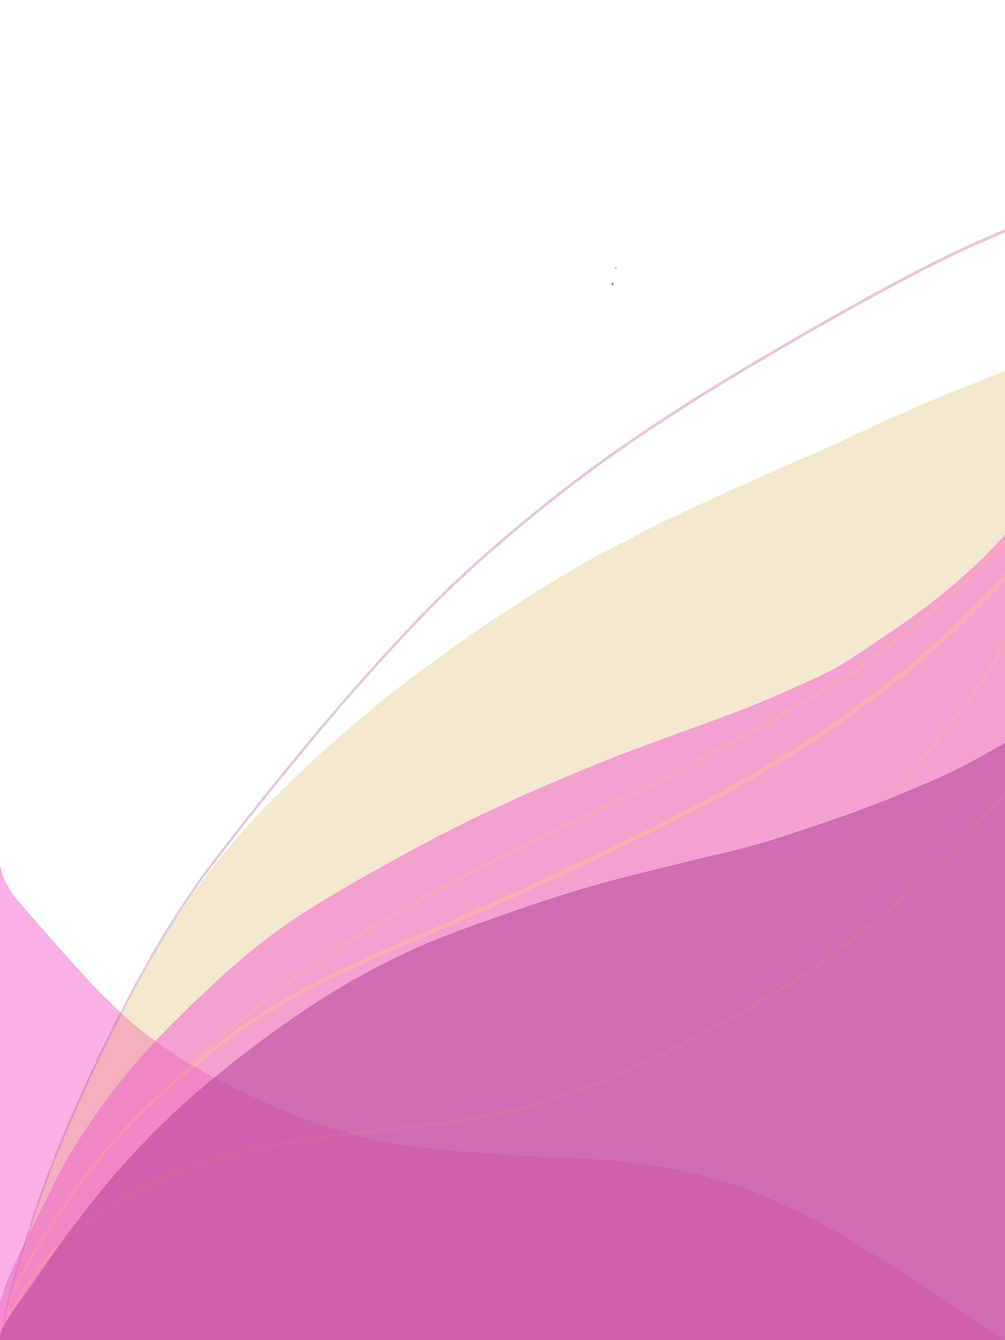
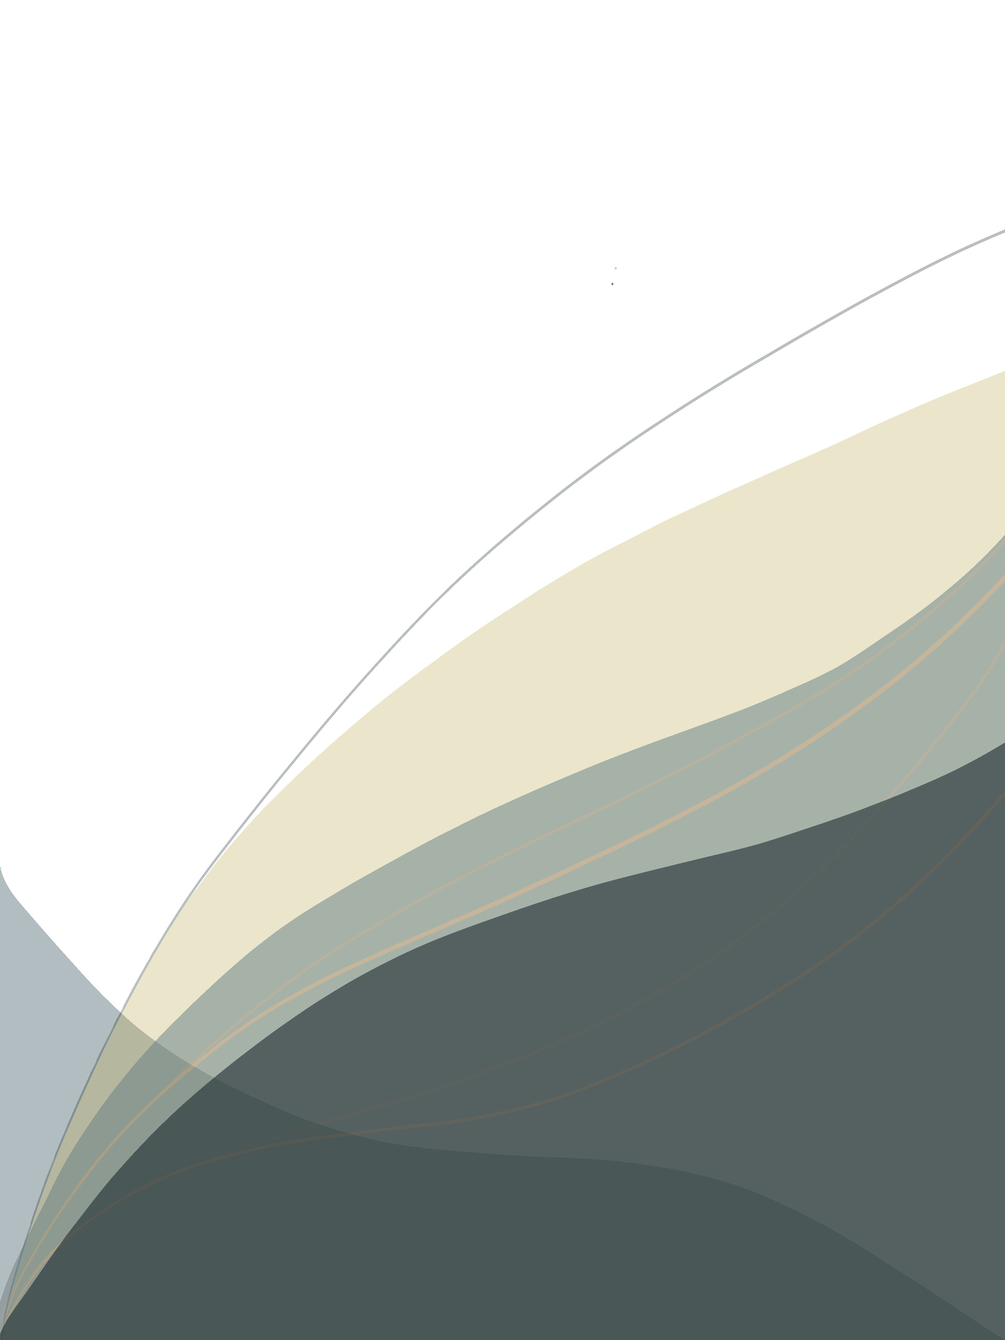
change background

diff --git a/docs/assets/css/main.css b/docs/assets/css/main.css
@@ -1,1 +1,1 @@
-html,body,div,span,applet,object,iframe,h1,h2,h3,h4,h5,h6,p,blockquote,pre,a,abbr,acronym,address,big,cite,code,del,dfn,em,img,ins,kbd,q,s,samp,small,strike,strong,sub,sup,tt,var,b,u,i,center,dl,dt,dd,ol,ul,li,fieldset,form,label,legend,table,caption,tbody,tfoot,thead,tr,th,td,article,aside,canvas,details,embed,figure,figcaption,footer,header,hgroup,menu,nav,output,ruby,section,summary,time,mark,audio,video{margin:0;padding:0;border:0;box-sizing:border-box;font-size:100%;font:inherit;vertical-align:baseline}article,aside,details,figcaption,figure,footer,header,hgroup,menu,nav,section{display:block}body{line-height:1}ol,ul{list-style:none}blockquote,q{quotes:none}blockquote:before,blockquote:after,q:before,q:after{content:'';content:none}table{border-collapse:collapse;border-spacing:0}:root{font-size:62.5%;scroll-behavior:smooth}.main{background-color:#f5f5f5;display:flex;flex-direction:column;justify-content:center;text-align:center;height:52.2vh}@media (min-width: 768px){.main{height:60vh}}.main--section1{display:flex;flex-direction:column;justify-content:center;text-align:center}.main--section1__title{color:#994294;font-size:19.2px;height:24px;font-family:"Merriweather",sans-serif;font-weight:bold;padding-top:20px}@media all and (min-width: 768px){.main--section1__title{font-size:24px;height:31px;padding-top:15px;transform:translateY(-20px)}}.main--section1__paragraph{font-family:"Open Sans",sans-serif;color:#114e4e;font-size:13px;margin:20px 28px 17.8px 28px;line-height:1.5}@media all and (min-width: 768px){.main--section1__paragraph{font-size:16px;margin:auto;padding-top:10px;width:331px;height:48px;transform:translateY(-20px)}}.main--section2{display:flex;flex-direction:row;justify-content:space-around;align-items:center;margin:20px 28px 17.8px 28px;border:solid 2px #f1beee;height:74px;border-radius:4px;padding:15px}@media all and (min-width: 768px){.main--section2{width:325px;height:86px;margin:40px auto;padding:15px 20px 10px;transform:translateY(-20px)}}.main--section2__div{display:flex;flex-direction:column;align-items:center}.main--section2__div__icon{color:#994294;height:26px;width:32px;font-size:22.4px}@media all and (min-width: 768px){.main--section2__div__icon{width:32px;height:29px}}.main--section2__div__text{color:#54585a;font-size:13px;font-family:"Open Sans",sans-serif}@media all and (min-width: 768px){.main--section2__div__text{font-size:16px}}.main--section3{text-align:center;justify-content:center;margin:38px 75px 50px 65px}@media all and (min-width: 768px){.main--section3{transform:translateY(40px)}}.main--section3__button{color:white;text-transform:uppercase;font-family:"Open Sans",sans-serif;font-weight:600;font-size:16px;background-color:#FBC536;border:none;border-radius:21px;width:129px;height:42px;padding:10px 20px;text-decoration:none;cursor:pointer}.landing--header{display:flex;flex-direction:column;justify-content:flex-end;align-items:center;height:27.8vh;background-color:#f5f5f5}@media (min-width: 768px){.landing--header{height:40vh}}@media (min-width: 1200px){.landing--header{height:30vh}}.landing--header__logo{width:100%;height:150px;padding-left:35px;padding-right:35px;transform:rotate(-10deg);margin-top:100px}@media (min-width: 768px){.landing--header__logo{height:200px;padding-left:155px;padding-right:154px}}.create-card--header{display:flex;flex-direction:column;justify-content:center;align-items:center;height:10.9vh;background-color:#fff}@media (min-width: 768px){.create-card--header{height:10.75vh;flex-direction:row;justify-content:flex-start}}@media (min-width: 1200px){.create-card--header{height:10.83vh}}.create-card--header__logo{height:50px}@media (min-width: 768px){.create-card--header__logo{padding-left:40px}}.footerContent{display:flex;flex-direction:column;justify-content:center;align-items:center;padding:18px 50px 20px;border-top:solid 1px #d8d8d8;background-color:#fff;height:15vh;width:100%}@media (min-width: 768px){.footerContent{height:10vh;max-height:80px}}.footerText{opacity:0.5;width:100%;font-family:"Open Sans",sans-serif;font-size:14px;line-height:1.43;color:#6b6b6b;text-align:center}.logo{width:100px;margin:12px 47px 0 48px}@media all and (min-width: 768px){.footerContent{flex-direction:row;justify-content:space-between}.footerText{text-align:left}.logo{align-items:right;margin-right:0;width:200px;margin-top:30px}}@media (min-width: 768px){.main--create-card{display:grid;grid-template-columns:1fr 1fr;gap:30px;background-color:#f5f5f5;padding-left:40px;padding-right:40px;min-height:82vh}}@media (min-width: 1200px){.main--create-card{grid-template-columns:1fr 2fr}}.create-card--header__logo{transform:rotate(-10deg);margin-top:10px}@media (min-width: 768px){.form--create-card{order:-1;padding-top:10px;padding-right:20px;display:flex;flex-direction:column;justify-content:flex-start}}.header--scroll__create-card{color:#54585a;font-size:18px}.header--scroll__create-card__rotate{transform:rotate(180deg);padding-top:25px}.collapsed{display:none}.disabled-link{pointer-events:none}.fill{border-bottom:1px solid #d8d8d8;margin-bottom:10px;margin-left:30px;margin-right:20px}@media (min-width: 768px){.fill{margin-left:0px;margin-right:0px}}.form--label{display:flex;flex-direction:column;justify-content:center;font-family:"Open Sans",sans-serif;font-size:1.4rem;line-height:20px;color:#114e4e;width:100%;padding-bottom:10px}.form--input{font-family:"Open Sans",sans-serif;font-size:1.4rem;padding:3px 9px 7px 9px;margin-bottom:15px;margin-top:7px;height:20px;border:solid 1px #a2deaf}.form--input__error{border:solid 1px red}.form--photo{display:flex;margin-top:7px;margin-bottom:20px}.form--photo__button{padding:3px 22px 7px 22px;font-family:"Open Sans",sans-serif;font-size:1.4rem;line-height:20px;background-color:#994294;color:#fff;width:140px;border-radius:4px;cursor:pointer;padding-top:9px}.form--foto__marco{width:30px;height:30px;margin-left:20px;border:solid 1px #a2deaf}.fill--header{display:flex;flex-direction:row;justify-content:space-between;cursor:pointer}.fill--header__title{padding-bottom:15px}.fill--header__title__icon{color:#994294;height:26px;width:32px;font-size:18px}@media (min-width: 1200px){.fill--header__title__icon{font-size:22px}}.fill--header__title__text{color:#54585a;font-size:18px;font-family:"Open Sans",sans-serif;text-transform:uppercase;font-weight:600;padding-left:5px;text-transform:uppercase}.action__hiddenField{display:none}.profile{margin:0 auto;display:flex;justify-content:center}.profile__image,.profile__preview{background-position:center;background-repeat:no-repeat;background-size:cover;border:1px solid #ccc}.profile__image{width:300px;height:300px}.profile__preview{width:30px;height:30px;margin-left:15px}.preview-photo{display:flex;flex-direction:row;margin-bottom:15px}.create{border-bottom:1px solid #d8d8d8;margin:0 20px 15px 30px}@media all and (min-width: 768px){.create{margin-left:0px;margin-right:0px}}.main--create{display:flex;flex-direction:row;justify-content:space-between;width:100%;padding-top:20px;padding-bottom:15px}@media all and (min-width: 768px){.main--create{padding-top:20px;padding-right:0px;padding-left:0px;padding-bottom:15px}}.main--create__legend{display:flex;flex-direction:row;gap:10px;cursor:pointer}.main--create__span{width:21px;height:18px;font-size:18px;color:#994294}.main--create__text{font-family:"Open Sans",sans-serif;font-weight:600;font-size:18px;color:#54585a;text-transform:uppercase}.main--create__paragraph{font-family:"Open Sans",sans-serif;font-size:14px;color:#54585a;margin-top:10px;margin-left:39px;text-transform:uppercase}@media all and (min-width: 768px){.main--create__paragraph{margin-left:0px}}.main--create__form{display:flex;justify-content:space-between}@media all and (min-width: 768px){.main--create__form{margin-top:-20px}}.main--create__colors{margin-right:25px;margin-top:10px}.main--create__elections{display:flex;flex-direction:row}.main--create__div{margin-bottom:20px}.main--create__color{display:grid;grid-template-columns:1fr 1fr 1fr;margin-left:15px}.main--create__color1{background-color:#114e4e;width:30px;height:25px}.main--create__color2{background-color:#438792;width:30px;height:25px}.main--create__color3{background-color:#a2deaf;width:30px;height:25px}.main--create__color4{background-color:#420101;width:30px;height:25px}.main--create__color5{background-color:#bd1010;width:30px;height:25px}.main--create__color6{background-color:#e95626;width:30px;height:25px}.main--create__color7{background-color:#994294;width:30px;height:25px}.main--create__color8{background-color:#eab052;width:30px;height:25px}.main--create__color9{background-color:#D94DED;width:30px;height:25px}.main_card{display:flex;flex-direction:column;flex-wrap:wrap;justify-items:center;justify-content:center;align-content:center;width:100%;background-image:url("../images/fondoverde.jpg");background-size:100% 100%;background-repeat:no-repeat;padding-bottom:10px;background-position-x:right}.main_card.palette1{background-image:url("../images/fondoverde.jpg")}.main_card.palette2{background-image:url("../images/fondorojo.jpg")}.main_card.palette3{background-image:url("../images/fondolila.jpg")}@media (min-width: 768px){margin-top:23px;margin-bottom:21px;border-radius:8px}.reset{width:85px;height:30px;border:solid 1px #fff;border-radius:15px;background-color:#dfdfdf;margin-top:35px;margin-bottom:20px;color:#54585a;font-size:10px;font-family:"Open Sans",sans-serif;text-transform:capitalize;letter-spacing:2px;cursor:pointer}.reset:hover{background-color:#54585a;color:white}.profileCard{display:flex;flex-direction:column;justify-content:space-evenly;background-color:white;width:240px;height:330px;border-radius:2px;box-shadow:0 1px 10px #6b6b6b;margin-bottom:40px}.profileText{border-left:5px solid #438792;font-family:"Montserrat",sans-serif;line-height:23px;margin-top:10px}.profileText.palette1{border-left-color:#438792}.profileText.palette2{border-left-color:#bd1010}.profileText.palette3{border-left-color:#eab052}.nameSurname{font-size:18px;font-weight:bold;color:#114e4e;padding-left:18px}.nameSurname.palette1{color:#114e4e}.nameSurname.palette2{color:#420101}.nameSurname.palette3{color:#994294}.profileRole{color:#54585a;padding-left:18px;font-size:16px}.profilePhotoContainer{width:100%;height:200px;background-repeat:no-repeat;background-size:100%;display:flex;justify-content:center;align-items:flex-end}.profileLinks{display:flex;justify-content:flex-start;align-items:baseline;padding-right:60px;padding-left:10px;color:#114e4e}.profileLinks.palette1 .icon{border-color:#a2deaf}.profileLinks.palette2 .icon{border-color:#e95626}.profileLinks.palette3 .icon{border-color:#D94DED}.icon{border:solid 3px #a2deaf;border-radius:50px;padding:7px 8.5px;font-size:20px;height:40px;width:40px;margin-right:5px}.mail,.linkedin,.github,.telephone{color:#114e4e}.mail.palette1,.linkedin.palette1,.github.palette1,.telephone.palette1{color:#114e4e}.mail.palette2,.linkedin.palette2,.github.palette2,.telephone.palette2{color:#420101}.mail.palette3,.linkedin.palette3,.github.palette3,.telephone.palette3{color:#994294}.share{border-bottom:1px solid #d8d8d8;margin:0 20px 25px 30px}@media all and (min-width: 768px){.share{margin-left:0px;margin-right:0px}}.share--header{display:flex;flex-direction:row;justify-content:space-between;cursor:pointer;margin-bottom:-10px}.share--header__title{padding-bottom:25px}.share--header__title__icon{color:#994294;height:26px;width:32px;font-size:22px}.share--header__title__text{color:#54585a;font-size:18px;font-family:"Open Sans",sans-serif;font-weight:600;padding-left:5px;text-transform:uppercase}.share--header .sectionshare__arrow{font-size:18px;color:#54585a}.share--button{display:flex;justify-content:center}.share--button__create{width:199px;height:50px;background-color:#994294;color:#f5f5f5;border:none;border-radius:12px;box-shadow:0 1px 6px 0 var(--black-32);font-family:"Open Sans",sans-serif;font-size:18px;text-transform:uppercase;box-shadow:0 1px 6px 0 rgba(0,0,0,0.32);margin:auto;cursor:pointer}.share--button__create:hover{background:#d5d5d5}.share--button .fa-regular{margin-right:8px;font-size:22px;color:#f5f5f5}.share--button2{display:flex;justify-content:center;flex-direction:column;padding-bottom:25px}.share--button2__text{font-family:"Open Sans",sans-serif;font-size:18px;font-weight:600;color:#54585a;text-align:center;margin-top:15px}.share--button2__nav{font-family:"Open Sans",sans-serif;font-size:12px;font-weight:600;color:#994294;text-align:center;text-decoration:none;line-height:3;margin-left:-11px;margin-right:-11px}.button2{display:flex;justify-content:center}.share--button2__twitter{width:181px;height:30px;margin-bottom:20px;padding:3px 9px 6px 10.5px;border-radius:3px;border:none;background-color:#00a0f5;color:#f5f5f5;font-family:"Open Sans",sans-serif;font-size:14px;box-shadow:0 1px 6px 0 rgba(0,0,0,0.32);cursor:pointer}.fa-brands{font-size:18px;margin-right:5px}.hiddenField{display:none}
+html,body,div,span,applet,object,iframe,h1,h2,h3,h4,h5,h6,p,blockquote,pre,a,abbr,acronym,address,big,cite,code,del,dfn,em,img,ins,kbd,q,s,samp,small,strike,strong,sub,sup,tt,var,b,u,i,center,dl,dt,dd,ol,ul,li,fieldset,form,label,legend,table,caption,tbody,tfoot,thead,tr,th,td,article,aside,canvas,details,embed,figure,figcaption,footer,header,hgroup,menu,nav,output,ruby,section,summary,time,mark,audio,video{margin:0;padding:0;border:0;box-sizing:border-box;font-size:100%;font:inherit;vertical-align:baseline}article,aside,details,figcaption,figure,footer,header,hgroup,menu,nav,section{display:block}body{line-height:1}ol,ul{list-style:none}blockquote,q{quotes:none}blockquote:before,blockquote:after,q:before,q:after{content:'';content:none}table{border-collapse:collapse;border-spacing:0}:root{font-size:62.5%;scroll-behavior:smooth}.main{background-color:#f5f5f5;display:flex;flex-direction:column;justify-content:center;text-align:center;height:52.2vh}@media (min-width: 768px){.main{height:60vh}}.main--section1{display:flex;flex-direction:column;justify-content:center;text-align:center}.main--section1__title{color:#994294;font-size:19.2px;height:24px;font-family:"Merriweather",sans-serif;font-weight:bold;padding-top:20px}@media all and (min-width: 768px){.main--section1__title{font-size:24px;height:31px;padding-top:15px;transform:translateY(-20px)}}.main--section1__paragraph{font-family:"Open Sans",sans-serif;color:#114e4e;font-size:13px;margin:20px 28px 17.8px 28px;line-height:1.5}@media all and (min-width: 768px){.main--section1__paragraph{font-size:16px;margin:auto;padding-top:10px;width:331px;height:48px;transform:translateY(-20px)}}.main--section2{display:flex;flex-direction:row;justify-content:space-around;align-items:center;margin:20px 28px 17.8px 28px;border:solid 2px #f1beee;height:74px;border-radius:4px;padding:15px}@media all and (min-width: 768px){.main--section2{width:325px;height:86px;margin:40px auto;padding:15px 20px 10px;transform:translateY(-20px)}}.main--section2__div{display:flex;flex-direction:column;align-items:center}.main--section2__div__icon{color:#994294;height:26px;width:32px;font-size:22.4px}@media all and (min-width: 768px){.main--section2__div__icon{width:32px;height:29px}}.main--section2__div__text{color:#54585a;font-size:13px;font-family:"Open Sans",sans-serif}@media all and (min-width: 768px){.main--section2__div__text{font-size:16px}}.main--section3{text-align:center;justify-content:center;margin:38px 75px 50px 65px}@media all and (min-width: 768px){.main--section3{transform:translateY(40px)}}.main--section3__button{color:white;text-transform:uppercase;font-family:"Open Sans",sans-serif;font-weight:600;font-size:16px;background-color:#FBC536;border:none;border-radius:21px;width:129px;height:42px;padding:10px 20px;text-decoration:none;cursor:pointer}.landing--header{display:flex;flex-direction:column;justify-content:flex-end;align-items:center;height:27.8vh;background-color:#f5f5f5}@media (min-width: 768px){.landing--header{height:40vh}}@media (min-width: 1200px){.landing--header{height:30vh}}.landing--header__logo{width:100%;height:150px;padding-left:35px;padding-right:35px;transform:rotate(-10deg);margin-top:100px}@media (min-width: 768px){.landing--header__logo{height:200px;padding-left:155px;padding-right:154px}}.create-card--header{display:flex;flex-direction:column;justify-content:center;align-items:center;height:10.9vh;background-color:#fff}@media (min-width: 768px){.create-card--header{height:10.75vh;flex-direction:row;justify-content:flex-start}}@media (min-width: 1200px){.create-card--header{height:10.83vh}}.create-card--header__logo{height:50px}@media (min-width: 768px){.create-card--header__logo{padding-left:40px}}.footerContent{display:flex;flex-direction:column;justify-content:center;align-items:center;padding:18px 50px 20px;border-top:solid 1px #d8d8d8;background-color:#fff;height:15vh;width:100%}@media (min-width: 768px){.footerContent{height:10vh;max-height:80px}}.footerText{opacity:0.5;width:100%;font-family:"Open Sans",sans-serif;font-size:14px;line-height:1.43;color:#6b6b6b;text-align:center}.logo{width:100px;margin:12px 47px 0 48px}@media all and (min-width: 768px){.footerContent{flex-direction:row;justify-content:space-between}.footerText{text-align:left}.logo{align-items:right;margin-right:0;width:200px;margin-top:30px}}@media (min-width: 768px){.main--create-card{display:grid;grid-template-columns:1fr 1fr;gap:30px;background-color:#f5f5f5;padding-left:40px;padding-right:40px;min-height:82vh}}@media (min-width: 1200px){.main--create-card{grid-template-columns:1fr 2fr}}.create-card--header__logo{transform:rotate(-10deg);margin-top:10px}@media (min-width: 768px){.form--create-card{order:-1;padding-top:10px;padding-right:20px;display:flex;flex-direction:column;justify-content:flex-start}}.header--scroll__create-card{color:#54585a;font-size:18px}.header--scroll__create-card__rotate{transform:rotate(180deg);padding-top:25px}.collapsed{display:none}.disabled-link{pointer-events:none}.fill{border-bottom:1px solid #d8d8d8;margin-bottom:10px;margin-left:30px;margin-right:20px}@media (min-width: 768px){.fill{margin-left:0px;margin-right:0px}}.form--label{display:flex;flex-direction:column;justify-content:center;font-family:"Open Sans",sans-serif;font-size:1.4rem;line-height:20px;color:#114e4e;width:100%;padding-bottom:10px}.form--input{font-family:"Open Sans",sans-serif;font-size:1.4rem;padding:3px 9px 7px 9px;margin-bottom:15px;margin-top:7px;height:20px;border:solid 1px #a2deaf}.form--input__error{border:solid 1px red}.form--photo{display:flex;margin-top:7px;margin-bottom:20px}.form--photo__button{padding:3px 22px 7px 22px;font-family:"Open Sans",sans-serif;font-size:1.4rem;line-height:20px;background-color:#994294;color:#fff;width:140px;border-radius:4px;cursor:pointer;padding-top:9px}.form--foto__marco{width:30px;height:30px;margin-left:20px;border:solid 1px #a2deaf}.fill--header{display:flex;flex-direction:row;justify-content:space-between;cursor:pointer}.fill--header__title{padding-bottom:15px}.fill--header__title__icon{color:#994294;height:26px;width:32px;font-size:18px}@media (min-width: 1200px){.fill--header__title__icon{font-size:22px}}.fill--header__title__text{color:#54585a;font-size:18px;font-family:"Open Sans",sans-serif;text-transform:uppercase;font-weight:600;padding-left:5px;text-transform:uppercase}.action__hiddenField{display:none}.profile{margin:0 auto;display:flex;justify-content:center}.profile__image,.profile__preview{background-position:center;background-repeat:no-repeat;background-size:cover;border:1px solid #ccc}.profile__image{width:300px;height:300px}.profile__preview{width:30px;height:30px;margin-left:15px}.preview-photo{display:flex;flex-direction:row;margin-bottom:15px}.create{border-bottom:1px solid #d8d8d8;margin:0 20px 15px 30px}@media all and (min-width: 768px){.create{margin-left:0px;margin-right:0px}}.main--create{display:flex;flex-direction:row;justify-content:space-between;width:100%;padding-top:20px;padding-bottom:15px}@media all and (min-width: 768px){.main--create{padding-top:20px;padding-right:0px;padding-left:0px;padding-bottom:15px}}.main--create__legend{display:flex;flex-direction:row;gap:10px;cursor:pointer}.main--create__span{width:21px;height:18px;font-size:18px;color:#994294}.main--create__text{font-family:"Open Sans",sans-serif;font-weight:600;font-size:18px;color:#54585a;text-transform:uppercase}.main--create__paragraph{font-family:"Open Sans",sans-serif;font-size:14px;color:#54585a;margin-top:10px;margin-left:39px;text-transform:uppercase}@media all and (min-width: 768px){.main--create__paragraph{margin-left:0px}}.main--create__form{display:flex;justify-content:space-between}@media all and (min-width: 768px){.main--create__form{margin-top:-20px}}.main--create__colors{margin-right:25px;margin-top:10px}.main--create__elections{display:flex;flex-direction:row}.main--create__div{margin-bottom:20px}.main--create__color{display:grid;grid-template-columns:1fr 1fr 1fr;margin-left:15px}.main--create__color1{background-color:#114e4e;width:30px;height:25px}.main--create__color2{background-color:#438792;width:30px;height:25px}.main--create__color3{background-color:#a2deaf;width:30px;height:25px}.main--create__color4{background-color:#420101;width:30px;height:25px}.main--create__color5{background-color:#bd1010;width:30px;height:25px}.main--create__color6{background-color:#e95626;width:30px;height:25px}.main--create__color7{background-color:#3e5b65;width:30px;height:25px}.main--create__color8{background-color:#eab052;width:30px;height:25px}.main--create__color9{background-color:#a0c0cf;width:30px;height:25px}.main_card{display:flex;flex-direction:column;flex-wrap:wrap;justify-items:center;justify-content:center;align-content:center;width:100%;background-image:url("../images/fondoverde.jpg");background-size:100% 100%;background-repeat:no-repeat;padding-bottom:10px;background-position-x:right}.main_card.palette1{background-image:url("../images/fondoverde.jpg")}.main_card.palette2{background-image:url("../images/fondorojo.jpg")}.main_card.palette3{background-image:url("../images/fondolila.jpg")}@media (min-width: 768px){margin-top:23px;margin-bottom:21px;border-radius:8px}.reset{width:85px;height:30px;border:solid 1px #fff;border-radius:15px;background-color:#dfdfdf;margin-top:35px;margin-bottom:20px;color:#54585a;font-size:10px;font-family:"Open Sans",sans-serif;text-transform:capitalize;letter-spacing:2px;cursor:pointer}.reset:hover{background-color:#54585a;color:white}.profileCard{display:flex;flex-direction:column;justify-content:space-evenly;background-color:white;width:240px;height:330px;border-radius:2px;box-shadow:0 1px 10px #6b6b6b;margin-bottom:40px}.profileText{border-left:5px solid #438792;font-family:"Montserrat",sans-serif;line-height:23px;margin-top:10px}.profileText.palette1{border-left-color:#438792}.profileText.palette2{border-left-color:#bd1010}.profileText.palette3{border-left-color:#eab052}.nameSurname{font-size:18px;font-weight:bold;color:#114e4e;padding-left:18px}.nameSurname.palette1{color:#114e4e}.nameSurname.palette2{color:#420101}.nameSurname.palette3{color:#3e5b65}.profileRole{color:#54585a;padding-left:18px;font-size:16px}.profilePhotoContainer{width:100%;height:200px;background-repeat:no-repeat;background-size:100%;display:flex;justify-content:center;align-items:flex-end}.profileLinks{display:flex;justify-content:flex-start;align-items:baseline;padding-right:60px;padding-left:10px;color:#114e4e}.profileLinks.palette1 .icon{border-color:#a2deaf}.profileLinks.palette2 .icon{border-color:#e95626}.profileLinks.palette3 .icon{border-color:#a0c0cf}.icon{border:solid 3px #a2deaf;border-radius:50px;padding:7px 8.5px;font-size:20px;height:40px;width:40px;margin-right:5px}.mail,.linkedin,.github,.telephone{color:#114e4e}.mail.palette1,.linkedin.palette1,.github.palette1,.telephone.palette1{color:#114e4e}.mail.palette2,.linkedin.palette2,.github.palette2,.telephone.palette2{color:#420101}.mail.palette3,.linkedin.palette3,.github.palette3,.telephone.palette3{color:#3e5b65}.share{border-bottom:1px solid #d8d8d8;margin:0 20px 25px 30px}@media all and (min-width: 768px){.share{margin-left:0px;margin-right:0px}}.share--header{display:flex;flex-direction:row;justify-content:space-between;cursor:pointer;margin-bottom:-10px}.share--header__title{padding-bottom:25px}.share--header__title__icon{color:#994294;height:26px;width:32px;font-size:22px}.share--header__title__text{color:#54585a;font-size:18px;font-family:"Open Sans",sans-serif;font-weight:600;padding-left:5px;text-transform:uppercase}.share--header .sectionshare__arrow{font-size:18px;color:#54585a}.share--button{display:flex;justify-content:center}.share--button__create{width:199px;height:50px;background-color:#994294;color:#f5f5f5;border:none;border-radius:12px;box-shadow:0 1px 6px 0 var(--black-32);font-family:"Open Sans",sans-serif;font-size:18px;text-transform:uppercase;box-shadow:0 1px 6px 0 rgba(0,0,0,0.32);margin:auto;cursor:pointer}.share--button__create:hover{background:#d5d5d5}.share--button .fa-regular{margin-right:8px;font-size:22px;color:#f5f5f5}.share--button2{display:flex;justify-content:center;flex-direction:column;padding-bottom:25px}.share--button2__text{font-family:"Open Sans",sans-serif;font-size:18px;font-weight:600;color:#54585a;text-align:center;margin-top:15px}.share--button2__nav{font-family:"Open Sans",sans-serif;font-size:12px;font-weight:600;color:#994294;text-align:center;text-decoration:none;line-height:3;margin-left:-11px;margin-right:-11px}.button2{display:flex;justify-content:center}.share--button2__twitter{width:181px;height:30px;margin-bottom:20px;padding:3px 9px 6px 10.5px;border-radius:3px;border:none;background-color:#00a0f5;color:#f5f5f5;font-family:"Open Sans",sans-serif;font-size:14px;box-shadow:0 1px 6px 0 rgba(0,0,0,0.32);cursor:pointer}.fa-brands{font-size:18px;margin-right:5px}.hiddenField{display:none}

diff --git a/src/js/06_sharecard.js b/src/js/06_sharecard.js
@@ -7,9 +7,9 @@ const twitterButton = document.querySelector('.js-share--button2__twitter');
 
 function checkRequiredFields()
 { 
- let messageError=''; 
+ let messageError='';
  let message='';
-  
+
 if (!nameForm.value){
   message=message +='nombre,';
 }
